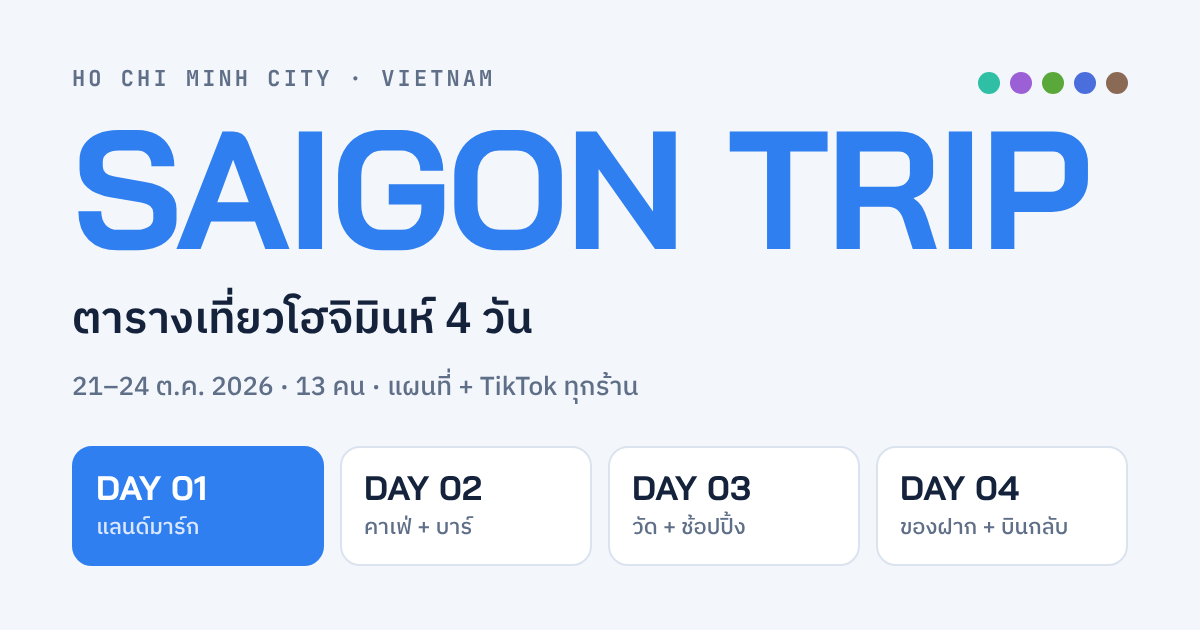
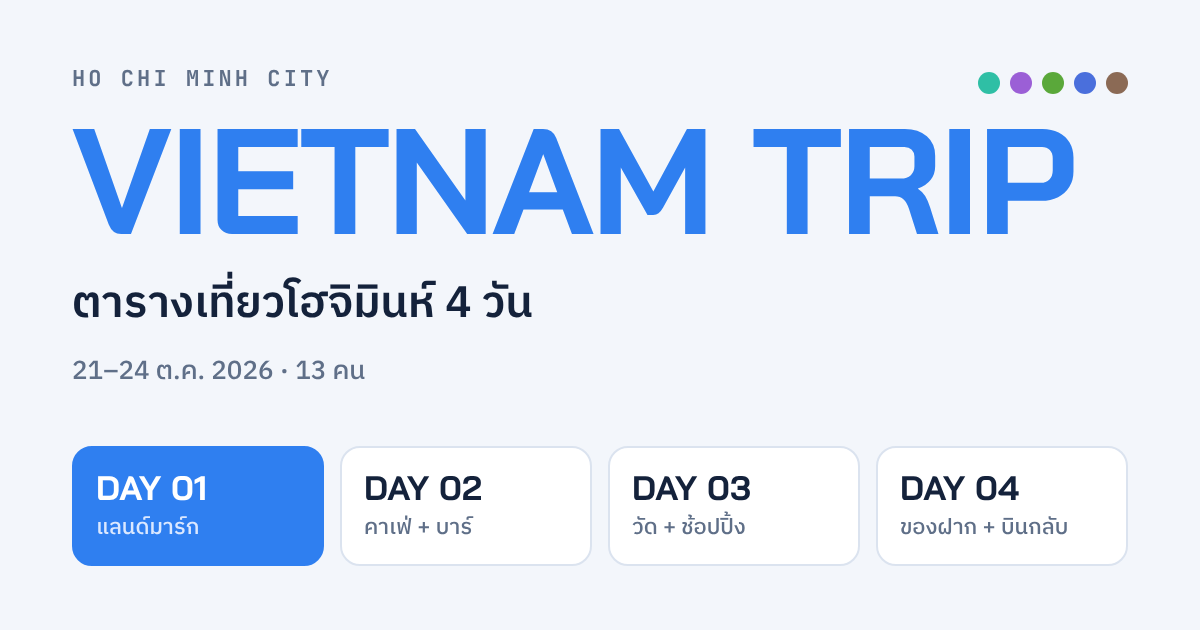
Cover: Vietnam Trip title, trim meta
Claude-Session: https://claude.ai/code/session_01KAWGvqmcEnxKdMWUkdoHZs

diff --git a/index.html b/index.html
@@ -8,7 +8,7 @@
 <meta name="description" content="ตารางเที่ยวโฮจิมินห์ 4 วัน · 21–24 ต.ค. 2026 · แผนที่ + TikTok ทุกร้าน">
 <meta property="og:type" content="website">
 <meta property="og:url" content="https://raypassport.github.io/VietTrip/">
-<meta property="og:title" content="Saigon Trip · 21–24 ต.ค. 2026">
+<meta property="og:title" content="Vietnam Trip · 21–24 ต.ค. 2026">
 <meta property="og:description" content="ตารางเที่ยวโฮจิมินห์ 4 วัน · แผนที่ + TikTok ทุกร้าน">
 <meta property="og:image" content="https://raypassport.github.io/VietTrip/og.png">
 <meta property="og:image:width" content="1200">
